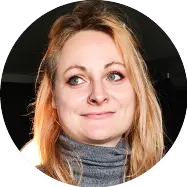
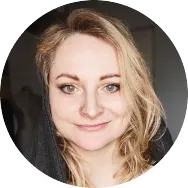
Add parallax effect to HeroSection and improve layout of CaseGallery

diff --git a/src/components/CaseGallery.tsx b/src/components/CaseGallery.tsx
@@ -46,38 +46,40 @@ const CaseGallery: React.FC<CaseGalleryProps> = ({
   return (
     <div
       className={classNames(
-        "w-full p-8 lg:pr-0 rounded-bl-lg flex-col justify-start items-start gap-6 inline-flex",
+        "w-full p-8 lg:pr-0 rounded-bl-lg flex-col h-full justify-between items-start inline-flex ",
         sectionStyle
       )}
     >
-      <p className={classNames("lg:pr-8", galleryDescriptionStyle)}>
-        {sliderSummary}
-      </p>
-      <div className="h-[400px] max-w-full relative">
-        <Swiper
-          spaceBetween={0}
-          slidesPerView={"auto"}
-          freeMode={true}
-          centeredSlides={false}
-          modules={[FreeMode]}
-          onSwiper={(swiper) => {
-            swiperRef.current = swiper;
-          }}
-          className={swiperWrapperStyle}
-        >
-          {images.map((image, index) => (
-            <SwiperSlide key={index} className={gallerySlideStyle}>
-              <Image
-                src={image.src}
-                alt={image.alt}
-                width={image.width}
-                height={image.height}
-                className={imageStyle}
-              />
-            </SwiperSlide>
-          ))}
-          <GalleryNavButtons></GalleryNavButtons>
-        </Swiper>
+      <div>
+        <p className={classNames("pr-16 lg:pr-8", galleryDescriptionStyle)}>
+          {sliderSummary}
+        </p>
+        <div className="h-[400px] max-w-full relative my-6">
+          <Swiper
+            spaceBetween={0}
+            slidesPerView={"auto"}
+            freeMode={true}
+            centeredSlides={false}
+            modules={[FreeMode]}
+            onSwiper={(swiper) => {
+              swiperRef.current = swiper;
+            }}
+            className={swiperWrapperStyle}
+          >
+            {images.map((image, index) => (
+              <SwiperSlide key={index} className={gallerySlideStyle}>
+                <Image
+                  src={image.src}
+                  alt={image.alt}
+                  width={image.width}
+                  height={image.height}
+                  className={imageStyle}
+                />
+              </SwiperSlide>
+            ))}
+            <GalleryNavButtons></GalleryNavButtons>
+          </Swiper>
+        </div>
       </div>
       <div className="w-[100%] pt-12 pb-4 flex-col justify-end items-start flex">
         <CaseStudyButton label="Close case overview" onClick={onClick} />

diff --git a/src/components/HeroSection.tsx b/src/components/HeroSection.tsx
@@ -1,19 +1,38 @@
-import React from "react";
+import React, { useEffect } from "react";
 import HeroSectionStyle from "./HeroSectionStyle.module.css";
 import classNames from "classnames";
 import Button from "./Button";
-import Image from "next/image";
 
 const HeroSection: React.FC = () => {
+  useEffect(() => {
+    const handleScroll = () => {
+      const scrollPosition = window.scrollY;
+      const background = document.getElementById("home-background");
+
+      if (background) {
+        background.style.backgroundPositionY = `${
+          -460 - scrollPosition * 1.6
+        }px`;
+      }
+    };
+
+    window.addEventListener("scroll", handleScroll);
+
+    return () => {
+      window.removeEventListener("scroll", handleScroll);
+    };
+  }, []);
+
   return (
     <section id="home" className={HeroSectionStyle.heroSection}>
       <div
+        id="home-background"
         className={classNames(
           "flex flex-col justify-center items",
           HeroSectionStyle.heroSectionBackground
         )}
       >
-        <div className="container mx-auto max-w-screen-xl flex flex-col justify-center items-center pt-16 px-4">
+        <div className="container mx-auto max-w-screen-xl flex flex-col justify-center items-center pt-16 px-4 pb-6 lg:pb-0">
           <h1 className={classNames("mb-2", HeroSectionStyle.heroHeader)}>
             Hello, my name is Ewa
           </h1>
@@ -49,7 +68,7 @@ const HeroSection: React.FC = () => {
               }}
             ></Button>
           </div>
-          <Image width="437" height="748" src="/images/ewa.webp" alt="Ewa" />
+          <div className={HeroSectionStyle.heroImage}></div>
         </div>
       </div>
     </section>

diff --git a/src/components/TabsNavigation.tsx b/src/components/TabsNavigation.tsx
@@ -56,7 +56,7 @@ const TabNavigation: React.FC<TabNavigationProps> = ({
         ))}
       </div>
       <div
-        className="overflow-auto"
+        className="overflow-auto flex flex-col h-full"
         ref={(el) => {
           if (isOpen && el) el.scrollTop = 0;
         }}
@@ -64,7 +64,10 @@ const TabNavigation: React.FC<TabNavigationProps> = ({
         {children.map((child, index) => (
           <div
             key={index}
-            className={classNames({ hidden: activeTab !== index })}
+            className={classNames(
+              { hidden: activeTab !== index },
+              "flex flex-col h-full"
+            )}
           >
             {child}
           </div>

diff --git a/src/components/HeroSectionStyle.module.css b/src/components/HeroSectionStyle.module.css
@@ -8,6 +8,7 @@
   background-position-x: center;
   background-position-y: 20%;
   text-align: center;
+  background-attachment: fixed; /* This creates the parallax effect */
 }
 
 .heroHeader {
@@ -35,4 +36,18 @@
   font-size: var(--font-size-lg, 18px);
   font-weight: var(--font-weight-Medium, 500);
   line-height: 24px; /* 133.333% */
+}
+
+.heroImage {
+  width: 436px;
+  height: 572px;
+  background-image: url("/images/ewa_hero.webp");
+  background-repeat: no-repeat;
+  background-position: top;
+}
+
+@media (min-width: 1024px) {
+  .heroImage {
+    height: 500px;
+  }
 }

diff --git a/src/components/CaseStudyDrawerStyle.module.css b/src/components/CaseStudyDrawerStyle.module.css
@@ -9,7 +9,7 @@
     width: 100%;
     bottom: 0;
     left: 0;
-    --tw-translate-y: 100%;
+    --tw-translate-y: 1000%;
     transform: translate(var(--tw-translate-x), var(--tw-translate-y))
       rotate(var(--tw-rotate)) skewX(var(--tw-skew-x)) skewY(var(--tw-skew-y))
       scaleX(var(--tw-scale-x)) scaleY(var(--tw-scale-y));
@@ -24,7 +24,7 @@
     top: 0;
     width: 900px;
     right: 0;
-    --tw-translate-x: 100%;
+    --tw-translate-x: 1000%;
   }
   .isOpenStyle {
     --tw-translate-x: 0px;

diff --git a/src/pages/index.tsx b/src/pages/index.tsx
@@ -8,10 +8,14 @@ import TestimonialsSection from "@/components/TestimonialsSection";
 import TrustedBySection from "@/components/TrustedBySection";
 import GetInTouchSection from "@/components/GetInTouchSection";
 import Footer from "@/components/Footer";
+import Head from "next/head";
 
 export default function Home() {
   return (
     <>
+      <Head>
+        <title>Ewa Kotowska</title>
+      </Head>
       <Navbar></Navbar>
       <HeroSection></HeroSection>
       <AboutSection></AboutSection>
